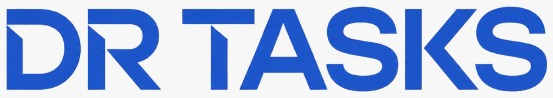
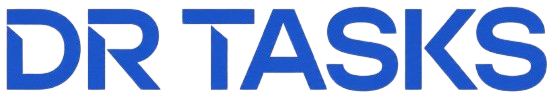
feat: initial institutional site

diff --git a/src/lib/homeVisualLanguage.test.ts b/src/lib/homeVisualLanguage.test.ts
@@ -4,21 +4,9 @@ import { readFileSync } from "node:fs";
 
 const read = (path: string) => readFileSync(new URL(path, import.meta.url), "utf8");
 const page = read("../app/page.tsx");
-const journey = read("../components/home-modules/HomeModuleJourney.tsx");
-const files = {
-  fluxos: read("../components/home-modules/FluxosChapter.tsx"),
-  projects: read("../components/home-modules/ProjectsChapter.tsx"),
-  finance: read("../components/home-modules/FinanceChapter.tsx"),
-  team: read("../components/home-modules/TeamChapter.tsx"),
-  resources: read("../components/home-modules/ResourcesChapter.tsx"),
-};
-const how = read("../components/HowItWorks.tsx");
-const segments = read("../components/Segments.tsx");
-const origin = read("../components/OriginStory.tsx");
-const proof = read("../components/SocialProof.tsx");
-const pricing = read("../components/Pricing.tsx");
-const faq = read("../components/FAQ.tsx");
-const finalCta = read("../components/FinalCTA.tsx");
+const journey = read("../components/home-commercial/HomeCommercialJourney.tsx");
+const heroCss = read("../components/home-commercial/HomeNarrativeHero.module.css");
+const shellCss = read("../components/home-commercial/ModuleStoryShell.module.css");
 
 function indexInOrder(source: string, tokens: string[]) {
   let cursor = -1;
@@ -29,77 +17,32 @@ function indexInOrder(source: string, tokens: string[]) {
   }
 }
 
-test("home preserves the approved section order", () => {
+test("home uses the approved compact dark commercial composition", () => {
   indexInOrder(page, [
-    "<HeroCommercial />",
-    "<TechnologyLogoLoop />",
-    "<ModuleShowcase />",
-    "<HomeModuleJourney />",
-    "<HowItWorks />",
-    "<Segments />",
+    "<HomeNarrativeHero />",
+    "<HomeModulesOverview />",
+    "<HomeCommercialJourney />",
     "<OriginStory />",
-    "<SocialProof />",
-    "<Pricing />",
-    "<FAQ />",
     "<FinalCTA />",
   ]);
+  assert.doesNotMatch(page, /TechnologyLogoLoop|ModuleShowcase|HomeModuleJourney|HowItWorks|Segments|SocialProof|FAQ/);
 });
 
-test("module journey exposes the narrative-v2 wrapper and all five chapters", () => {
-  assert.match(journey, /data-home-visual-language="narrative-v2"/);
-  for (const component of ["FluxosChapter", "ProjectsChapter", "FinanceChapter", "TeamChapter", "ResourcesChapter"]) {
-    assert.match(journey, new RegExp(`<${component}\\s*/>`));
+test("new commercial journey is the mounted eight-story wrapper", () => {
+  assert.match(journey, /data-home-visual-language="commercial-dark-v1"/);
+  for (const component of ["FluxosStory", "ProjectsStory", "FinanceStory", "QuotesStory", "RequestsStory", "ChatStory", "TeamTimeStory", "ResourcesStory"]) {
+    assert.match(journey, new RegExp(`<${component}\\s*`));
   }
 });
 
-test("each module chapter has its own narrative primitive", () => {
-  assert.match(files.fluxos, /RECEBIDA/);
-  assert.match(files.fluxos, /MEDIÇÃO/);
-  assert.match(files.projects, /Instituição/);
-  assert.match(files.projects, /Workspace/);
-  assert.match(files.projects, /activeStep/);
-  assert.match(files.finance, /Solicitação/);
-  assert.match(files.finance, /Conciliação/);
-  assert.match(files.finance, /financeStages/);
-  assert.match(files.team, /08:00/);
-  assert.match(files.team, /workday/);
-  assert.match(files.resources, /CAMPO/);
-  assert.match(files.resources, /PROJETO/);
+test("commercial home owns the approved dark palette and avoids viewport-locking every module", () => {
+  for (const token of ["#06111F", "#2F7CFF", "#F5F8FF", "#9BAEC9"]) assert.match(heroCss.toUpperCase(), new RegExp(token.toUpperCase()));
+  assert.doesNotMatch(shellCss, /height:\s*100vh|min-height:\s*100vh/);
+  assert.match(shellCss, /min-height:\s*760px/);
 });
 
-test("animated module chapters respect reduced motion", () => {
-  assert.match(files.fluxos, /useReducedMotion/);
-  assert.match(files.team, /useReducedMotion/);
-  assert.match(files.resources, /useReducedMotion/);
-});
-
-test("all detailed module CTAs remain intact", () => {
-  assert.match(files.fluxos, /Saiba mais sobre FluxOS/);
-  assert.match(files.projects, /Saiba mais sobre Projetos e Tarefas/);
-  assert.match(files.finance, /Saiba mais sobre Financeiro/);
-  assert.match(files.team, /Saiba mais sobre Equipe e Tempo/);
-  assert.match(files.resources, /Saiba mais sobre Recursos/);
-});
-
-test("how it works uses continuous storytelling instead of cards", () => {
-  assert.doesNotMatch(how, /how-grid|how-card/);
-  for (const label of ["Contexto", "Fluxo", "Trabalho", "Próxima ação"]) assert.match(how, new RegExp(label));
-});
-
-test("segments is an editorial selector, not a card grid", () => {
-  assert.doesNotMatch(segments, /segments-grid|segment-card/);
-  assert.match(segments, /aria-pressed/);
-  assert.match(segments, /Construção e obras/);
-});
-
-test("origin is manifesto-style and proof is ledger-style", () => {
-  assert.match(origin, /manifesto/i);
-  assert.match(proof, /ledger/i);
-  assert.doesNotMatch(proof, /beta-card/);
-});
-
-test("commercial close avoids repeated surface cards", () => {
-  assert.doesNotMatch(pricing, /surface pricing-surface/);
-  assert.match(faq, /aria-controls/);
-  assert.doesNotMatch(finalCta, /final-cta-v18/);
+test("new commercial visual system remains responsive and reduced-motion safe", () => {
+  assert.match(heroCss, /prefers-reduced-motion:\s*reduce/);
+  assert.match(heroCss, /@media\s*\(max-width:/);
+  assert.match(shellCss, /@media\s*\(max-width:/);
 });

diff --git a/src/components/FinalCTA.module.css b/src/components/FinalCTA.module.css
@@ -1,1 +1,2 @@
-.section{position:relative;overflow:hidden;padding:clamp(238px,18vw,286px) 0 clamp(190px,14vw,230px);min-height:clamp(620px,52vw,760px);background:radial-gradient(circle at 84% 25%,#163f79,#0b1e3b 38%,#07162d 75%);color:#fff}.ambient{position:absolute;left:-5%;right:-5%;top:48%;height:180px;border-top:1px solid rgba(70,143,245,.45);border-radius:50%;transform:rotate(-4deg);box-shadow:0 -4px 25px rgba(47,126,240,.12)}.ambient:before,.ambient:after{content:"";position:absolute;width:10px;height:10px;border-radius:50%;background:#4a91f6;box-shadow:0 0 20px #4a91f6}.ambient:before{left:7%;top:-5px}.ambient:after{right:4%;top:-5px}.inner{position:relative;z-index:2;width:min(calc(100% - 80px),1500px);margin:auto;padding-inline:0;display:grid;grid-template-columns:.82fr 1.18fr;gap:45px;align-items:start}.copy{padding-top:22px}.copy>span{color:#6ca7ff;font-size:10px;font-weight:900;letter-spacing:.18em}.copy h2{font-size:clamp(39px,3.6vw,58px);line-height:1.02;letter-spacing:-.05em;margin:22px 0 14px}.copy h2 em{font-style:normal;color:#6da7ff}.copy p{color:#a7b6ca;font-size:12px;line-height:1.7;max-width:620px}.actions{display:flex;gap:12px;margin-top:25px}.actions a{padding:12px 18px;border-radius:9px;text-decoration:none;font-size:10px;font-weight:800;color:#fff;border:1px solid rgba(255,255,255,.25)}.actions a:first-child{background:#2878f4;border-color:#2878f4}.productStage{position:relative;height:438px}.productWindow{position:absolute;left:20px;top:40px;width:780px;height:390px;display:grid;grid-template-columns:135px 1fr;background:#fff;color:#24344a;border-radius:11px 11px 0 0;overflow:hidden;box-shadow:0 30px 70px rgba(0,0,0,.28);transform:rotate(-3deg);transform-origin:center}.productWindow aside{display:grid;align-content:start;gap:14px;padding:18px 14px;border-right:1px solid #e8edf3;color:#8290a1;font-size:8px}.productWindow aside b{color:#2878f4;font-size:10px;margin-bottom:10px}.productWindow aside strong{color:#2878f4;background:#edf4ff;padding:7px;border-radius:5px}.productWindow main{padding:25px}.productWindow h3{font-size:15px;margin:0 0 14px}.tabs{font-size:7px;color:#8190a3;margin-bottom:18px}.project{display:grid;grid-template-columns:1.2fr .8fr 1fr 32px 50px;gap:10px;align-items:center;padding:13px 0;border-top:1px solid #edf1f5;font-size:7px}.project span{color:#5b83b7}.project i{height:4px;background:#edf1f5;border-radius:4px;overflow:hidden}.project i em{display:block;height:100%;background:#2878f4}.project u{text-decoration:none;color:#8b98a8;letter-spacing:-1px}.nextActions{position:absolute;right:-8px;top:5px;display:grid;gap:9px;background:#fff;color:#24344a;padding:16px 18px;border-radius:10px;box-shadow:0 16px 38px rgba(0,0,0,.2);transform:rotate(3deg);font-size:8px}.nextActions b{font-size:10px;margin-bottom:3px}.nextActions span{color:#61738b}.nextActions span::first-letter{color:#2878f4}@media(max-width:900px){.inner{grid-template-columns:1fr}.productStage{height:390px}.productWindow{left:0;width:100%;transform:rotate(-1deg)}.nextActions{right:10px}}@media(max-width:600px){.inner{width:min(calc(100% - 36px),1500px)}.section{padding-top:70px}.actions{flex-direction:column}.productStage{height:330px;margin-top:15px}.productWindow{height:300px;grid-template-columns:90px 1fr;transform:none}.productWindow main{padding:16px}.project{grid-template-columns:1fr 60px 28px}.project span,.project u{display:none}.nextActions{display:none}}
+.section{position:relative;padding:128px 0 138px;background:#06111F;color:#F5F8FF;border-top:1px solid rgba(131,168,213,.1);overflow:hidden}.section:before{content:"";position:absolute;left:50%;top:50%;width:860px;height:500px;transform:translate(-50%,-50%);background:radial-gradient(ellipse,rgba(47,124,255,.16),rgba(47,124,255,.045) 43%,transparent 70%);filter:blur(6px)}.grid{position:absolute;inset:0;background-image:linear-gradient(rgba(90,165,255,.045) 1px,transparent 1px),linear-gradient(90deg,rgba(90,165,255,.04) 1px,transparent 1px);background-size:68px 68px;mask-image:radial-gradient(circle at center,black,transparent 72%);opacity:.45}.inner{position:relative;width:min(970px,calc(100% - 72px));margin:0 auto;text-align:center}.eyebrow{display:block;margin-bottom:22px;font-size:10px;font-weight:800;letter-spacing:.2em;color:#5AA5FF}.inner h2{margin:0 auto;max-width:910px;font-size:clamp(48px,5vw,72px);line-height:.99;letter-spacing:-.052em;text-wrap:balance}.inner p{max-width:650px;margin:27px auto 0;color:#9BAEC9;font-size:16px;line-height:1.68}.actions{display:flex;justify-content:center;align-items:center;gap:12px;margin-top:36px;flex-wrap:wrap}.actions a{min-height:52px;padding:0 20px;border-radius:14px;display:inline-flex;align-items:center;justify-content:center;gap:22px;text-decoration:none;font-size:14px;font-weight:760;transition:transform .22s ease,border-color .22s ease,background .22s ease}.actions a:hover{transform:translateY(-2px)}.actions a:focus-visible{outline:2px solid #F5F8FF;outline-offset:4px}.primary{color:#fff;background:linear-gradient(135deg,#2F7CFF,#1D61E8);box-shadow:0 14px 34px rgba(47,124,255,.25)}.secondary{color:#d8e8fb;background:rgba(255,255,255,.03);border:1px solid rgba(135,173,219,.17)}
+@media(max-width:700px){.section{padding:94px 0 104px}.inner{width:calc(100% - 32px)}.inner h2{font-size:clamp(41px,12vw,56px)}.inner p{font-size:15px}.actions{align-items:stretch}.actions a{flex:1;min-width:220px}}

diff --git a/src/app/globals.css b/src/app/globals.css
@@ -40,7 +40,7 @@ p{color:var(--muted);line-height:1.7}
 .section-head{margin-bottom:58px}.section-head-narrow{max-width:770px}.section-head-wide{max-width:920px}.section-head h2{margin-top:20px}.section-head p{font-size:17px;max-width:760px}
 .split-head{display:grid;grid-template-columns:1.05fr .95fr;gap:80px;align-items:end}.split-head p{margin:0 0 4px}
 
-.brand{display:inline-flex;align-items:center;gap:10px}.brand-mark{display:grid;place-items:center;width:30px;height:30px;border-radius:9px;background:var(--brand);color:#fff;font-size:14px;font-weight:800;box-shadow:0 7px 22px rgba(47,99,255,.22)}.brand-name{font-weight:750;font-size:15px;letter-spacing:-.025em}.brand-name-inverse{color:#fff}
+.brand{display:inline-flex;align-items:center}.brand-logo-image{display:block;width:154px;max-width:100%;height:auto;object-fit:contain}
 .site-header{position:fixed;z-index:60;top:0;left:0;width:100%;transition:background .2s ease,border-color .2s ease,backdrop-filter .2s ease;border-bottom:1px solid transparent}.site-header.is-scrolled{background:rgba(255,255,255,.88);backdrop-filter:blur(16px);border-color:rgba(221,225,233,.78)}.nav-shell{height:76px;display:flex;align-items:center;justify-content:space-between}.logo-link{display:inline-flex}.desktop-nav{display:flex;align-items:center;gap:30px;margin-left:auto;margin-right:38px}.desktop-nav a,.login-link{font-size:13px;font-weight:560;color:#4f5662;transition:color .16s ease,transform .16s ease}.desktop-nav a:hover,.login-link:hover{color:var(--text);transform:translateY(-1px)}.nav-actions{display:flex;align-items:center;gap:22px}.mobile-menu-button{display:none;width:40px;height:40px;border:1px solid var(--line);background:#fff;border-radius:12px;color:var(--text)}.mobile-menu-button svg{width:20px;margin:auto}.mobile-nav{display:none;background:rgba(255,255,255,.97);border-top:1px solid var(--line);border-bottom:1px solid var(--line)}.mobile-nav-inner{display:flex;flex-direction:column;padding:18px 0 24px;gap:8px}.mobile-nav-inner>a:not(.button){padding:11px 2px;font-size:15px;font-weight:600}
 .button{display:inline-flex;align-items:center;justify-content:center;gap:9px;min-height:50px;padding:0 20px;border-radius:13px;border:1px solid transparent;font-size:14px;font-weight:700;letter-spacing:-.01em;transition:transform .17s cubic-bezier(.22,1,.36,1),box-shadow .17s ease,background .17s ease,border-color .17s ease}.button svg{width:17px;height:17px}.button:hover{transform:translateY(-2px)}.button:active{transform:translateY(0) scale(.985)}.button-primary{background:var(--brand);color:#fff;box-shadow:0 10px 28px rgba(28,85,201,.22)}.button-primary:hover{background:var(--brand-dark);box-shadow:0 16px 36px rgba(28,85,201,.30)}.button-secondary{background:#fff;border-color:var(--line-strong);color:var(--text)}.button-secondary:hover{border-color:#bac8ec;box-shadow:var(--shadow-soft)}.button-dark-secondary{background:rgba(255,255,255,.07);border-color:rgba(255,255,255,.18);color:#fff}.button-dark-secondary:hover{background:rgba(255,255,255,.12)}.button-small{min-height:40px;padding-inline:16px;font-size:12px;border-radius:11px}.button-block{width:100%}
 

diff --git a/src/lib/homeArchitecture.test.ts b/src/lib/homeArchitecture.test.ts
@@ -3,32 +3,24 @@ import assert from "node:assert/strict";
 import fs from "node:fs";
 
 const pageSource = fs.readFileSync("src/app/page.tsx", "utf8");
-const moduleShowcaseSource = fs.readFileSync("src/lib/moduleShowcase.ts", "utf8");
+const narrative = fs.readFileSync("src/lib/homeCommercialNarrative.ts", "utf8");
 
-test("home moves directly from the Hero into the interactive module Product Stage", () => {
-  assert.match(pageSource, /<HeroCommercial\s*\/>[\s\S]*?<ModuleShowcase\s*\/>/);
-  assert.doesNotMatch(pageSource, /<PainBand\s*\/>/);
-  assert.doesNotMatch(pageSource, /<FluxOS\s*\/>/);
-  assert.doesNotMatch(pageSource, /<ProductPillars\s*\/>/);
-});
-
-test("home Product Stage keeps every published product deep link", () => {
-  const architecture = fs.readFileSync("src/lib/productArchitecture.ts", "utf8");
-  assert.match(moduleShowcaseSource, /hrefFor/);
-  for (const href of [
-    "/produto/fluxos",
-    "/produto/projetos-e-tarefas",
-    "/produto/financeiro",
-    "/produto/recursos",
-    "/produto/equipe",
-  ]) {
-    assert.match(architecture, new RegExp(href.replaceAll("/", "\\/")));
+test("home is a short commercial composition instead of the legacy chapter stack", () => {
+  for (const component of ["HomeNarrativeHero", "HomeModulesOverview", "HomeCommercialJourney", "OriginStory", "FinalCTA"]) {
+    assert.match(pageSource, new RegExp(`<${component}\\s*\\/>`));
+  }
+  for (const retired of ["TechnologyLogoLoop", "ModuleShowcase", "HomeModuleJourney", "HowItWorks", "Segments", "SocialProof", "FAQ"]) {
+    assert.doesNotMatch(pageSource, new RegExp(retired));
   }
 });
 
-test("home keeps contextual deep links for construction and company story", () => {
-  const segments = fs.readFileSync("src/components/Segments.tsx", "utf8");
+test("home commercial narrative keeps every published product deep link", () => {
+  for (const href of ["/produto/fluxos", "/produto/projetos-e-tarefas", "/produto/financeiro", "/produto/equipe", "/produto/recursos"]) {
+    assert.match(narrative, new RegExp(href.replaceAll("/", "\\/")));
+  }
+});
+
+test("home still keeps the company story deep link", () => {
   const origin = fs.readFileSync("src/components/OriginStory.tsx", "utf8");
-  assert.match(segments, /\/segmentos\/construcao/);
   assert.match(origin, /\/sobre/);
 });

diff --git a/src/components/OriginStory.module.css b/src/components/OriginStory.module.css
@@ -1,1 +1,2 @@
-.section{padding:clamp(216px,16.5vw,264px) 0;background:#fff;color:#0b1830}.inner{width:min(calc(100% - 80px),1500px);margin:auto;padding-inline:0}.editorialSplit{display:grid;grid-template-columns:1.25fr 1px .58fr;gap:58px;align-items:start}.editorialSplit>div:first-child>span{color:#2878f4;font-size:10px;font-weight:900;letter-spacing:.18em}.editorialSplit h2{font-size:clamp(38px,3.6vw,58px);line-height:1.03;letter-spacing:-.05em;margin:24px 0 0}.editorialSplit h2 em{font-style:normal;color:#7c899b}.divider{display:block;width:1px;height:100%;background:#dfe6ef}.body{padding-top:8px}.body p{font-size:12px;line-height:1.75;color:#6f7e91;margin:0 0 22px}.body strong{color:#1d2b40}.body a{display:inline-block;margin-top:20px;color:#2878f4;text-decoration:none;font-size:11px;font-weight:800}@media(max-width:760px){.inner{width:min(calc(100% - 36px),1500px)}.editorialSplit{grid-template-columns:1fr;gap:30px}.divider{width:100%;height:1px}.editorialSplit h2{font-size:40px}}
+.section{position:relative;padding:126px 0;background:#071522;color:#F5F8FF;border-top:1px solid rgba(131,168,213,.1);overflow:hidden}.section:before{content:"";position:absolute;left:-15%;top:-70%;width:700px;height:700px;border-radius:50%;background:radial-gradient(circle,rgba(47,124,255,.08),transparent 68%);pointer-events:none}.inner{position:relative;width:min(980px,calc(100% - 72px));margin:0 auto}.eyebrow{display:block;margin-bottom:22px;font-size:10px;font-weight:800;letter-spacing:.19em;color:#5AA5FF}.inner h2{font-size:clamp(41px,4.4vw,64px);line-height:1.02;letter-spacing:-.047em;margin:0;max-width:940px;text-wrap:balance}.inner p{max-width:720px;margin:28px 0 0;font-size:16px;line-height:1.72;color:#9BAEC9}.inner a{display:inline-flex;align-items:center;gap:18px;margin-top:30px;min-height:42px;color:#dcecff;text-decoration:none;font-size:13px;font-weight:750;border-bottom:1px solid rgba(90,165,255,.44);transition:gap .2s ease,color .2s ease,border-color .2s ease}.inner a:hover{gap:24px;color:#82b8ff;border-color:#82b8ff}.inner a:focus-visible{outline:2px solid #5AA5FF;outline-offset:6px}
+@media(max-width:700px){.section{padding:88px 0}.inner{width:calc(100% - 32px)}.inner h2{font-size:clamp(37px,11vw,49px)}.inner p{font-size:15px}}

diff --git a/src/app/page.tsx b/src/app/page.tsx
@@ -1,17 +1,27 @@
 import { createPageMetadata } from "@/lib/seo";
-import { site } from "@/lib/site";
+import { homeHeroNarrative } from "@/lib/homeCommercialNarrative";
 import { Header } from "@/components/Header";
-import { HeroCommercial } from "@/components/HeroCommercialRotating";
-import { TechnologyLogoLoop } from "@/components/TechnologyLogoLoop";
-import { ModuleShowcase } from "@/components/ModuleShowcase";
-import { HomeModuleJourney } from "@/components/home-modules/HomeModuleJourney";
-import { HowItWorks } from "@/components/HowItWorks";
-import { Segments } from "@/components/Segments";
+import { HomeNarrativeHero } from "@/components/home-commercial/HomeNarrativeHero";
+import { HomeModulesOverview } from "@/components/home-commercial/HomeModulesOverview";
+import { HomeCommercialJourney } from "@/components/home-commercial/HomeCommercialJourney";
 import { OriginStory } from "@/components/OriginStory";
-import { SocialProof } from "@/components/SocialProof";
-import { FAQ } from "@/components/FAQ";
 import { FinalCTA } from "@/components/FinalCTA";
 import { Footer } from "@/components/Footer";
 
-export const metadata = createPageMetadata("Gestão operacional por estágios",site.description,"/");
-export default function HomePage(){return <><Header/><main><HeroCommercial/><TechnologyLogoLoop/><ModuleShowcase/><HomeModuleJourney/><HowItWorks/><Segments/><OriginStory/><SocialProof/><FAQ/><FinalCTA/></main><Footer/></>}
+export const metadata = createPageMetadata("Gestão operacional conectada", homeHeroNarrative.metadataDescription, "/");
+
+export default function HomePage() {
+  return (
+    <>
+      <Header />
+      <main>
+        <HomeNarrativeHero />
+        <HomeModulesOverview />
+        <HomeCommercialJourney />
+        <OriginStory />
+        <FinalCTA />
+      </main>
+      <Footer />
+    </>
+  );
+}

diff --git a/src/components/FinalCTA.tsx b/src/components/FinalCTA.tsx
@@ -1,7 +1,20 @@
 import Link from "next/link";
-import { ArrowRightIcon } from "./Icons";
-import { primaryCta, secondaryCta } from "@/lib/commercial";
+import { primaryCta } from "@/lib/commercial";
+import styles from "./FinalCTA.module.css";
 
 export function FinalCTA() {
-  return <section className="section final-section"><div className="container final-cta final-cta-v18"><div className="final-glow"/><div><span className="eyebrow eyebrow-dark">Próximo passo</span><h2>Pare de procurar o status. Comece a conduzir o próximo passo.</h2><p>Veja como o FluxOS organiza OS, estágios, responsáveis, prazos, bloqueios e próximas ações em uma leitura operacional.</p></div><div className="final-actions"><Link href={primaryCta.href} className="button button-primary">{primaryCta.label} <ArrowRightIcon /></Link><a href={secondaryCta.href} className="button button-dark-secondary">{secondaryCta.label}</a></div><div className="final-flow" aria-hidden="true"><span/><span/><span/><span className="done"/></div></div></section>;
+  return (
+    <section className={styles.section} aria-labelledby="final-cta-title">
+      <div className={styles.grid} aria-hidden="true" />
+      <div className={styles.inner}>
+        <span className={styles.eyebrow}>PRÓXIMO PASSO</span>
+        <h2 id="final-cta-title">Pare de reconstruir o contexto. Comece a conduzir a operação.</h2>
+        <p>Veja como projetos, aprovações, financeiro, equipe e campo podem continuar conectados do problema à próxima ação.</p>
+        <div className={styles.actions}>
+          <Link className={styles.primary} href={primaryCta.href}>{primaryCta.label}<span>↗</span></Link>
+          <Link className={styles.secondary} href="/#modulos">Rever os módulos<span>↑</span></Link>
+        </div>
+      </div>
+    </section>
+  );
 }

diff --git a/src/components/OriginStory.tsx b/src/components/OriginStory.tsx
@@ -1,2 +1,15 @@
-import Link from "next/link"; import styles from "./OriginStory.module.css";
-export function OriginStory(){return <section className={styles.section}><div className={styles.inner}><div className={styles.editorialSplit}><div><span>08 / ORIGEM</span><h2>Não começamos<br/>imaginando como o<br/>trabalho deveria funcionar.<br/><em>Começamos tentando<br/>enxergar o que já estava<br/>acontecendo.</em></h2></div><i className={styles.divider}/><div className={styles.body}><p>O Dr. Tasks nasceu da experiência com planilhas, contratos, obras e controle operacional. A pergunta original era simples: <strong>o que está acontecendo agora e qual é a próxima ação?</strong></p><p>A construção civil é o trabalho por projetos foram o primeiro contexto, mas o modelo foi desenhado para qualquer operação que precisa de execução com responsáveis, prazos e histórico.</p><Link href="/sobre">Conheça a<br/>história do Dr. Tasks　→</Link></div></div></div></section>}
+import Link from "next/link";
+import styles from "./OriginStory.module.css";
+
+export function OriginStory() {
+  return (
+    <section className={styles.section} aria-labelledby="origin-title">
+      <div className={styles.inner}>
+        <span className={styles.eyebrow}>ORIGEM</span>
+        <h2 id="origin-title">O Dr. Tasks nasceu de operação real, não de uma abstração de produtividade.</h2>
+        <p>Planilhas, contratos, obras, aprovações e execução já existiam antes do produto. O sistema nasceu tentando preservar o contexto entre essas partes para que a equipe saiba o que aconteceu, quem responde e qual é a próxima ação.</p>
+        <Link href="/sobre">Conheça a história do Dr. Tasks <span>↗</span></Link>
+      </div>
+    </section>
+  );
+}

diff --git a/src/components/Footer.tsx b/src/components/Footer.tsx
@@ -1,5 +1,11 @@
 import Link from "next/link";
 import { Logo } from "./Logo";
 
+const groups = [
+  { title: "Produto", links: [{label:"Módulos",href:"/#modulos"},{label:"FluxOS",href:"/#modulo-fluxos"},{label:"Financeiro",href:"/#modulo-financeiro"}] },
+  { title: "Operação", links: [{label:"Projetos e Tarefas",href:"/#modulo-projetos"},{label:"Equipe e Tempo",href:"/#modulo-equipe-tempo"},{label:"Recursos",href:"/#modulo-recursos"}] },
+  { title: "Empresa", links: [{label:"Sobre",href:"/sobre"},{label:"Contato",href:"/contato"},{label:"Agendar demonstração",href:"/demo"}] },
+  { title: "Acesso", links: [{label:"Entrar",href:"/login"},{label:"Privacidade",href:"/privacidade"},{label:"Termos",href:"/termos"}] },
 ];
 
+export function Footer(){return <footer className="site-footer"><div className="container footer-grid"><div className="footer-brand"><Logo/><p>Gestão operacional conectada para transformar trabalho disperso em contexto, decisão e próxima ação.</p></div>{groups.map(group=><div className="footer-col" key={group.title}><strong>{group.title}</strong>{group.links.map(link=><Link href={link.href} key={link.label}>{link.label}</Link>)}</div>)}</div><div className="container footer-bottom"><span>© {new Date().getFullYear()} Dr. Tasks. Todos os direitos reservados.</span><div><Link href="/privacidade">Privacidade</Link><Link href="/termos">Termos</Link><Link href="/cookies">Cookies</Link></div></div></footer>}

diff --git a/src/lib/commercial.test.ts b/src/lib/commercial.test.ts
@@ -1,6 +1,6 @@
 import test from "node:test";
 import assert from "node:assert/strict";
-import { commercialPositioning, homeNavItems, primaryCta } from "./commercial.ts";
+import { commercialPositioning, homeNavItems, primaryCta, secondaryCta } from "./commercial.ts";
 
 test("commercial launch copy contains no unapproved trial promises", () => {
   const copy = JSON.stringify({ commercialPositioning, primaryCta }).toLowerCase();
@@ -9,11 +9,7 @@ test("commercial launch copy contains no unapproved trial promises", () => {
   assert.equal(copy.includes("cancele quando quiser"), false);
 });
 
-test("home navigation matches the MVP commercial architecture", () => {
-  assert.deepEqual(homeNavItems.map(item => item.label), [
-    "Produto",
-    "Para quem é",
-    "Como funciona",
-    "Recursos",
-  ]);
+test("home navigation matches the compact commercial architecture", () => {
+  assert.deepEqual(homeNavItems.map(item => item.label), ["Módulos", "FluxOS", "Financeiro", "Recursos"]);
+  assert.deepEqual(secondaryCta, { label: "Conhecer os módulos", href: "#modulos" });
 });

diff --git a/src/lib/megaMenu.ts b/src/lib/megaMenu.ts
@@ -1,9 +1,9 @@
 export const megaMenuItems = [
-  { label: "Produto", href: "/#produto", eyebrow: "Visão do produto" },
-  { label: "FluxOS", href: "/#fluxos", eyebrow: "Operação por estágios" },
-  { label: "Para quem é", href: "/#segmentos", eyebrow: "Construção e operações" },
-  { label: "Como funciona", href: "/#como-funciona", eyebrow: "Do projeto à próxima ação" },
-  { label: "Recursos", href: "/#recursos", eyebrow: "O que já está disponível" },
+  { label: "Módulos", href: "/#modulos", eyebrow: "Oito dores conectadas" },
+  { label: "FluxOS", href: "/#modulo-fluxos", eyebrow: "Visão operacional" },
+  { label: "Financeiro", href: "/#modulo-financeiro", eyebrow: "Origem e resultado" },
+  { label: "Projetos", href: "/#modulo-projetos", eyebrow: "Contexto até a tarefa" },
+  { label: "Recursos", href: "/#modulo-recursos", eyebrow: "Evidência no contexto" },
   { label: "Sobre", href: "/sobre", eyebrow: "Origem do Dr. Tasks" },
 ] as const;
 

diff --git a/src/lib/logoLoopSectionV42.test.ts b/src/lib/logoLoopSectionV42.test.ts
@@ -7,9 +7,9 @@ const read = (path: string) => readFileSync(new URL(path, import.meta.url), "utf
 const home = read("../app/page.tsx");
 const packageJson = JSON.parse(read("../../package.json")) as { dependencies?: Record<string, string> };
 
-test("LogoLoop section sits immediately between Hero and ModuleShowcase", () => {
-  assert.match(home, /import \{ TechnologyLogoLoop \} from "@\/components\/TechnologyLogoLoop"/);
-  assert.match(home, /<HeroCommercial \/>\s*<TechnologyLogoLoop \/>\s*<ModuleShowcase \/>/);
+test("technology LogoLoop stays available as a legacy component but is retired from Home", () => {
+  assert.doesNotMatch(home, /TechnologyLogoLoop/);
+  assert.doesNotMatch(home, /ModuleShowcase/);
 });
 
 test("React Bits LogoLoop registry source is installed as the JS-CSS variant", () => {
